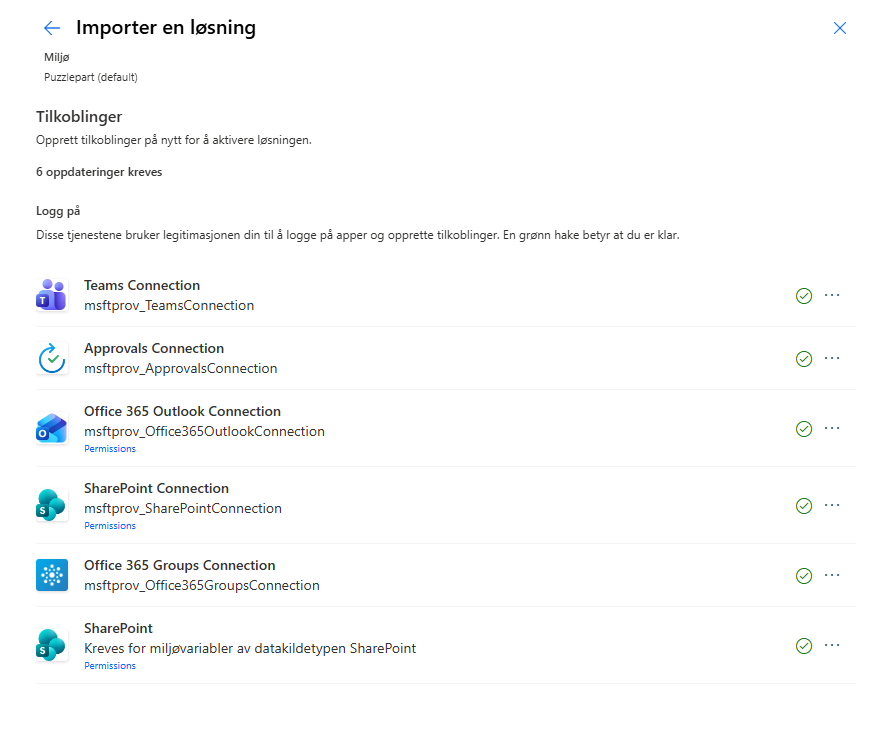
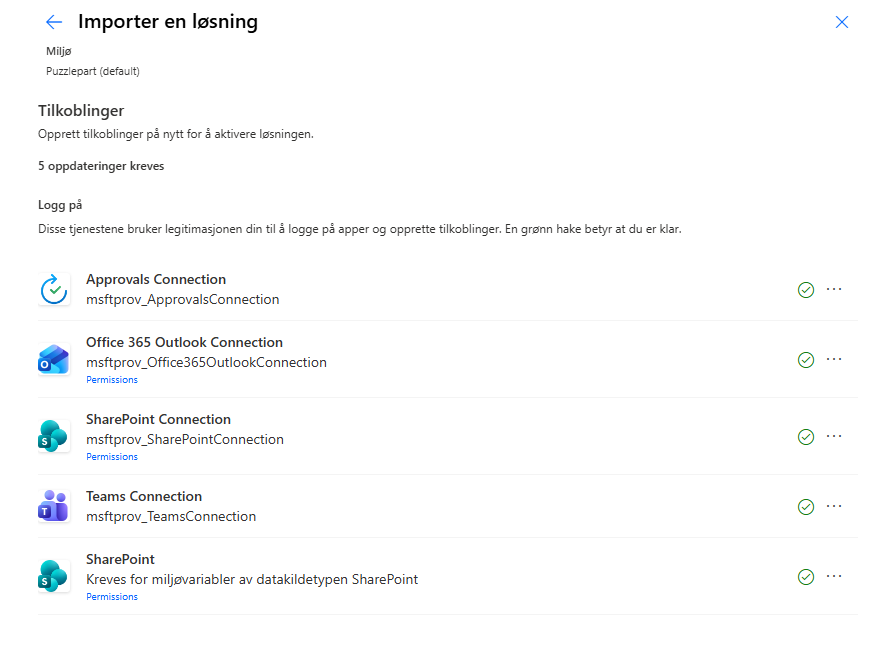
Vis deployment summary-skjermbilde i installasjonsveiledningen
Nytt skjermbilde av rapporten etter vellykket kjoering der DEPLOYMENT
SUMMARY beskrives, og oppdatert tilkoblingsskjermbilde for flyt-
importen (fem tilkoblinger etter at Check Space Availability ble
fjernet fra pakken).

diff --git a/Deployment-guide.md b/Deployment-guide.md
@@ -157,7 +157,9 @@ Etter at alle innloggingene er fullført — men **før noe opprettes eller endr
 
 Hvis du aktiverer sensitivitetsmerke-funksjonaliteten, vises en dialog som ber om passordet for tjenestekontoen. Fullfør dialogen.
 
-På slutten av kjøringen skriver skriptet ut en **DEPLOYMENT SUMMARY** — en statuslinje per delkomponent (SharePoint-område, Entra ID-app, Azure-ressurser, app-roller, runbooks, API-tilkoblinger, hver Logic App og SPFx-pakkene) med `OK`, `FAILED`, `WARNING` eller `SKIPPED`. Oppsummeringen vises også hvis skriptet stopper på en feil underveis, slik at du ser hvilke komponenter som rakk å fullføre.
+På slutten av kjøringen skriver skriptet ut en **DEPLOYMENT SUMMARY** — en statuslinje per delkomponent (SharePoint-område, Entra ID-app, Azure-ressurser, app-roller, runbooks, API-tilkoblinger, hver Logic App og SPFx-pakkene) med `OK`, `FAILED`, `WARNING` eller `SKIPPED`, etterfulgt av de gjenstående manuelle stegene med henvisning til riktig steg i denne veiledningen. Oppsummeringen vises også hvis skriptet stopper på en feil underveis, slik at du ser hvilke komponenter som rakk å fullføre.
+
+![Deployment summary etter vellykket kjøring](/Images/InstallationSuccess.png)
 
 - Vises **«DEPLOYMENT COMPLETED SUCCESSFULLY»**: gå videre til neste steg.
 - Vises **«DEPLOYMENT COMPLETED WITH ERRORS»** (exit-kode 1): se hvilke komponenter som feilet i oppsummeringen, rett årsaken og kjør skriptet på nytt. Vær særlig oppmerksom på `App roles`-linjene — feiler disse vil Logic Apps få 401/403 ved kjøring selv om alt annet ser vellykket ut.
